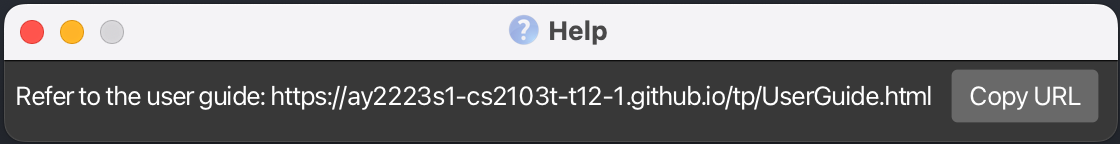
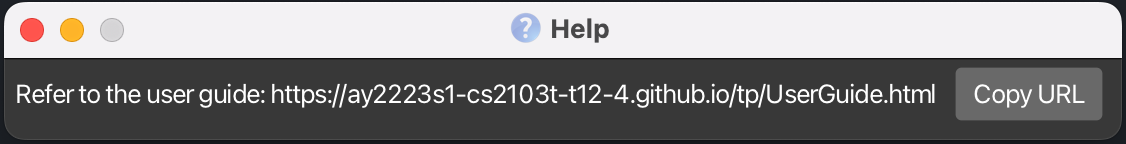
Update help page screenshot in User Guide

diff --git a/src/main/java/seedu/address/ui/HelpWindow.java b/src/main/java/seedu/address/ui/HelpWindow.java
@@ -15,7 +15,7 @@ import seedu.address.commons.core.LogsCenter;
  */
 public class HelpWindow extends UiPart<Stage> {
 
-    public static final String USERGUIDE_URL = "https://ay2223s1-cs2103t-t12-1.github.io/tp/UserGuide.html";
+    public static final String USERGUIDE_URL = "https://ay2223s1-cs2103t-t12-4.github.io/tp/UserGuide.html";
     public static final String HELP_MESSAGE = "Refer to the user guide: " + USERGUIDE_URL;
 
     private static final Logger logger = LogsCenter.getLogger(HelpWindow.class);
